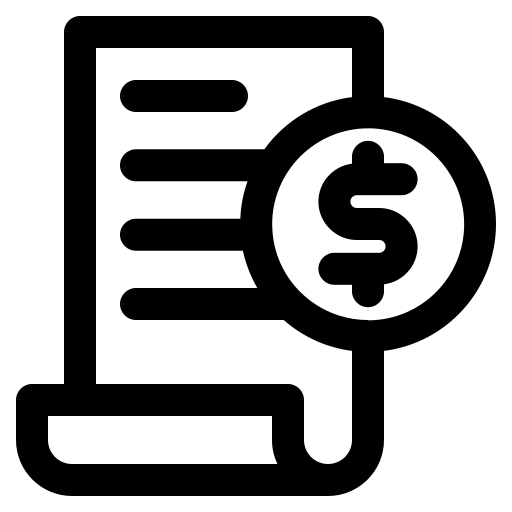
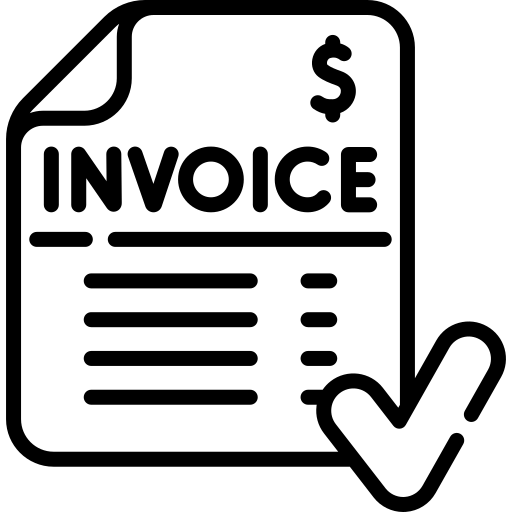
updating UI

diff --git a/frontend/src/pages/Mobile/pages/Dashboard.jsx b/frontend/src/pages/Mobile/pages/Dashboard.jsx
@@ -224,10 +224,10 @@ const Dashboard = () => {
                         </div>
 
                         <div className="d-flex flex-column align-items-center">
-                            <Link to="/transfer" className="text-decoration-none">
-                                <img src="/img/transfer.png" alt="Transfer Money Icon" />
+                            <Link to="#" className="text-decoration-none">
+                                <img src="/img/invoice.png" alt="Transfer Money Icon" />
                             </Link>
-                            <span className="fw-semibold fs-18 mt-1">Transfer</span>
+                            <span className="fw-semibold fs-18 mt-1">Invoices</span>
                         </div>
                     </div>
                 </div>

diff --git a/frontend/src/components/Footer.jsx b/frontend/src/components/Footer.jsx
@@ -16,10 +16,11 @@ const Footer = () => {
             <span>Home</span>
           </Link>
 
-          <div className="footer-item text-decoration-none text-dark small fw-semibold pt-2">
+          <Link to='/transfer' 
+            className="footer-item text-decoration-none text-dark small fw-semibold pt-2">
             <img src="/img/transfer-solid.png" alt="Transfer" />
             <span>Transfer</span>
-          </div>
+          </Link>
 
           <Link
             to={`/profile/${userId}`}